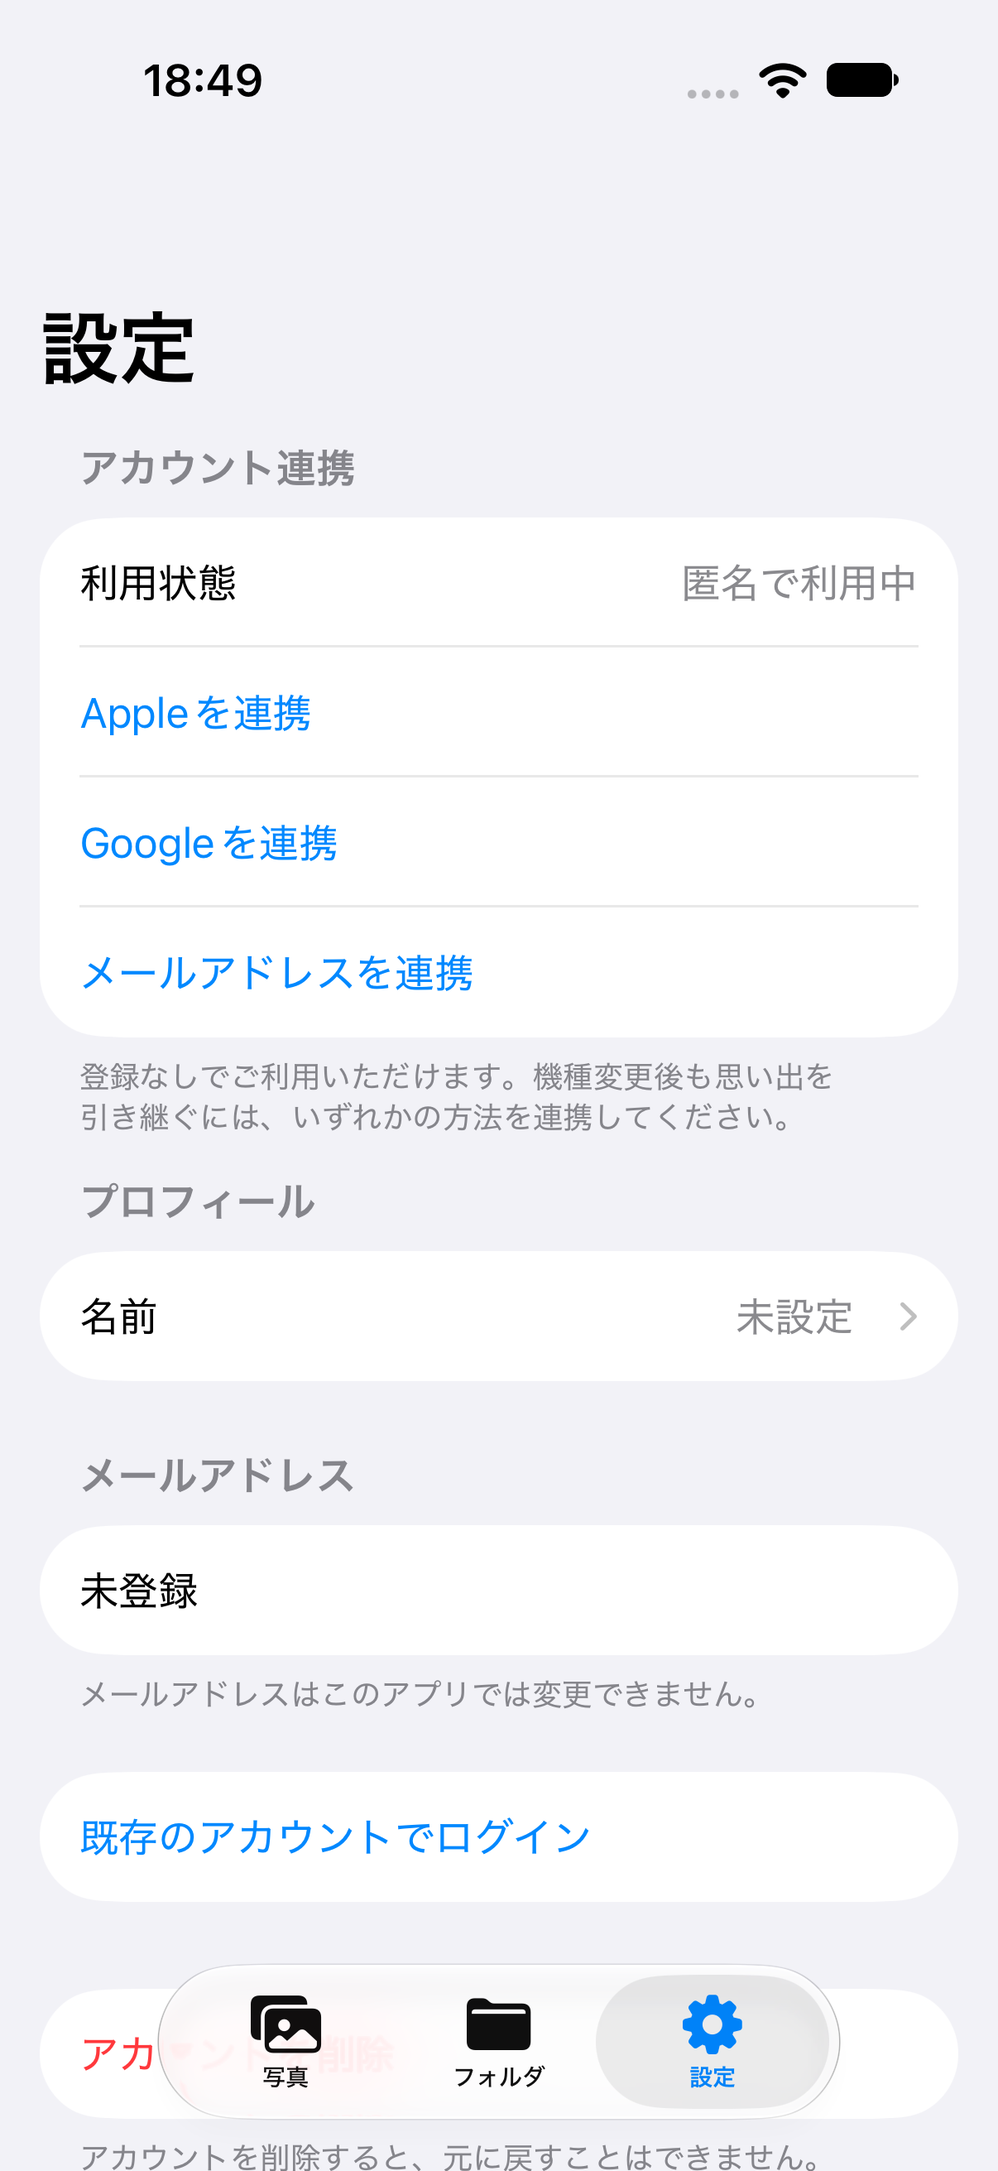
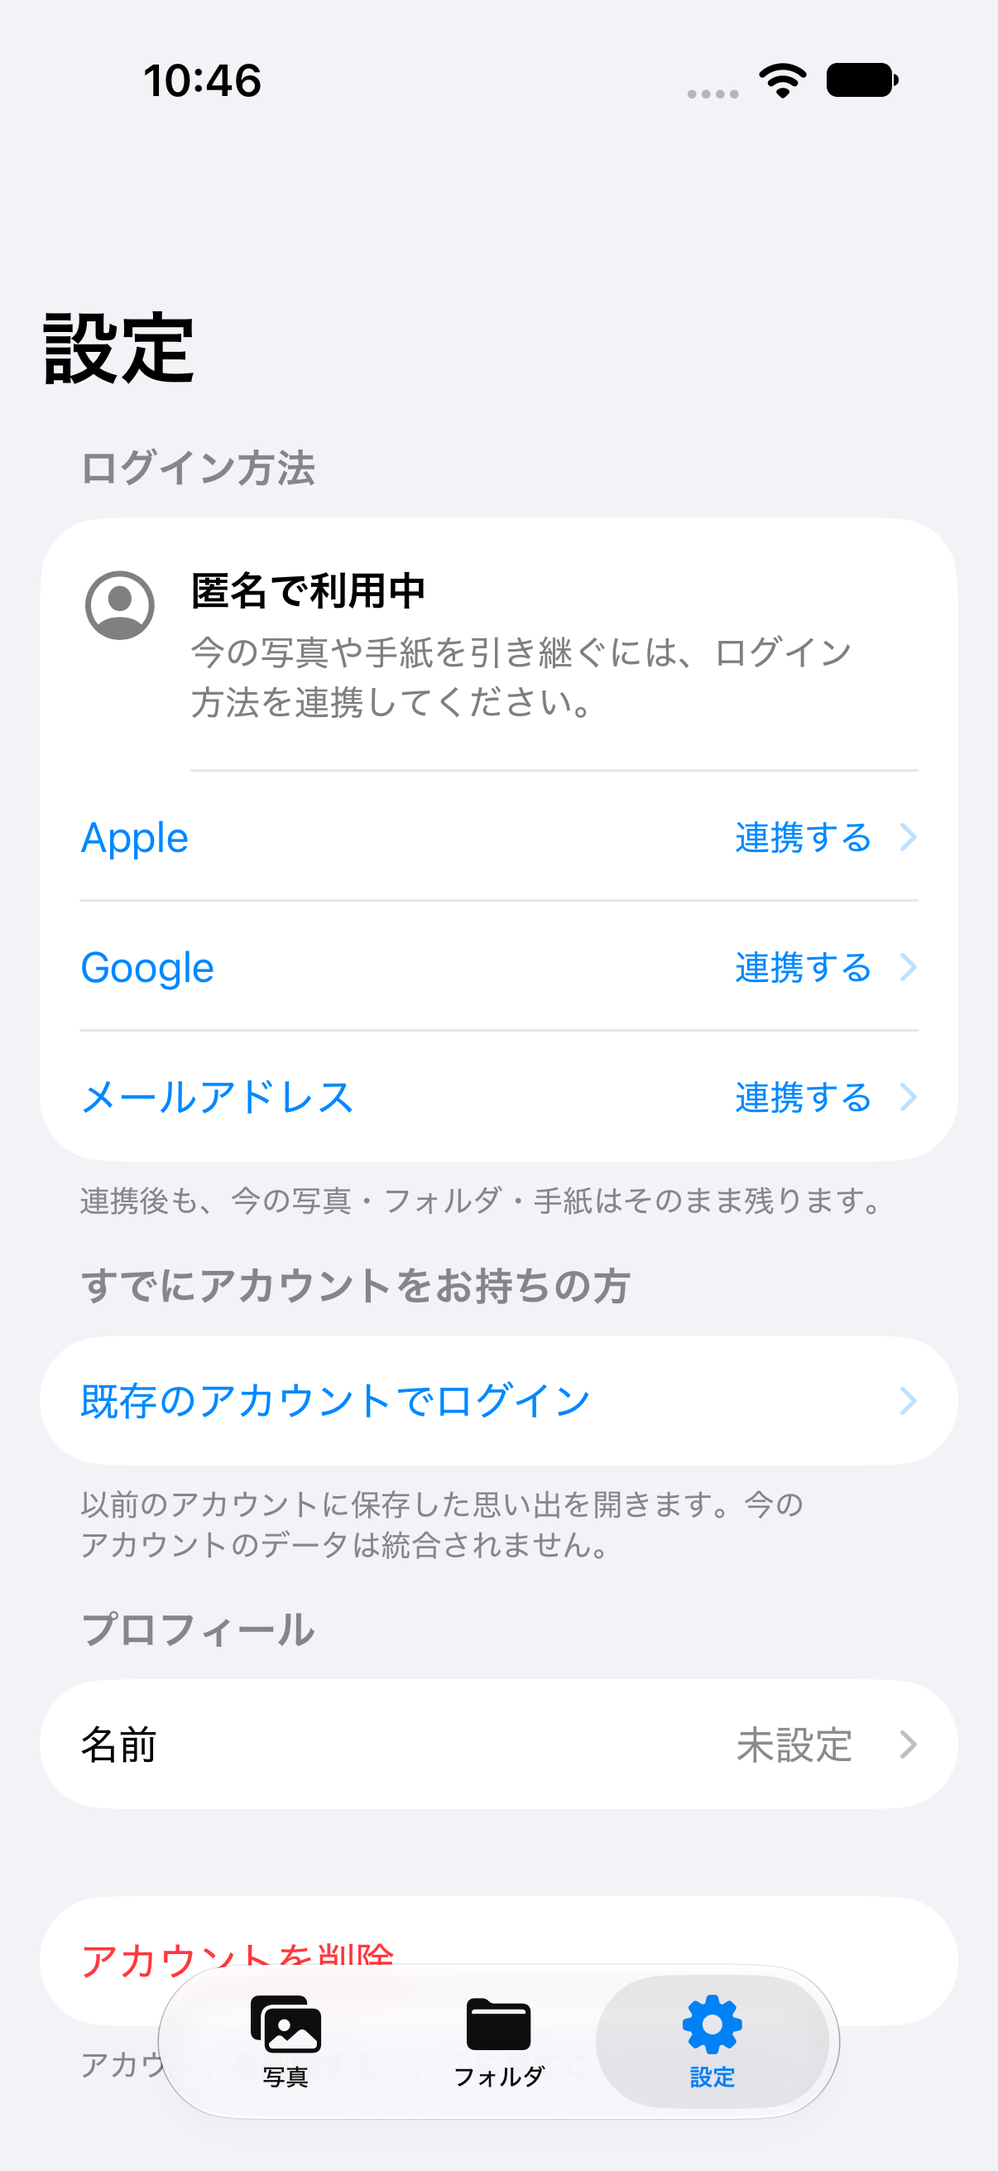
Clarify account settings and verify email linking end to end

diff --git a/sotsugyo/View/SettingView.swift b/sotsugyo/View/SettingView.swift
@@ -39,26 +39,80 @@ struct SettingView: View {
     var body: some View {
         Form {
             Section {
-                LabeledContent("利用状態", value: viewModel.isAnonymous ? "匿名で利用中" : "連携済み")
-                    .accessibilityIdentifier("auth.accountStatus")
+                HStack(alignment: .top, spacing: 12) {
+                    Image(systemName: viewModel.isAnonymous ? "person.crop.circle" : "person.crop.circle.badge.checkmark")
+                        .font(.title)
+                        .foregroundStyle(.secondary)
+                        .accessibilityHidden(true)
+                    VStack(alignment: .leading, spacing: 6) {
+                        Text(viewModel.isAnonymous ? "匿名で利用中" : "アカウント連携済み")
+                            .font(.headline)
+                        Text(viewModel.isAnonymous
+                             ? "今の写真や手紙を引き継ぐには、ログイン方法を連携してください。"
+                             : "連携した方法で、別の端末からもログインできます。")
+                            .font(.subheadline)
+                            .foregroundStyle(.secondary)
+                    }
+                }
+                .padding(.vertical, 4)
+                .accessibilityElement(children: .combine)
+                .accessibilityIdentifier("auth.accountStatus")
                 ForEach(AccountProvider.allCases) { provider in
                     if viewModel.linkedProviderIDs.contains(provider.rawValue) {
-                        LabeledContent(provider.title, value: "連携済み")
-                            .accessibilityIdentifier("auth.linked.\(provider.rawValue)")
+                        HStack {
+                            Text(provider.title)
+                            Spacer()
+                            Label("連携済み", systemImage: "checkmark.circle.fill")
+                                .font(.subheadline)
+                                .foregroundStyle(.secondary)
+                        }
+                        .accessibilityElement(children: .combine)
+                        .accessibilityIdentifier("auth.linked.\(provider.rawValue)")
                     } else {
-                        Button("\(provider.title)を連携") { linkingProvider = provider }
-                            .disabled(viewModel.isDeleting)
-                            .accessibilityIdentifier("auth.connect.\(provider.rawValue)")
+                        Button { linkingProvider = provider } label: {
+                            HStack {
+                                Text(provider.title)
+                                    .foregroundStyle(.primary)
+                                Spacer()
+                                Text("連携する")
+                                    .font(.subheadline)
+                                Image(systemName: "chevron.right")
+                                    .font(.footnote.weight(.semibold))
+                                    .foregroundStyle(.tertiary)
+                            }
+                            .contentShape(Rectangle())
+                        }
+                        .disabled(viewModel.isDeleting)
+                        .accessibilityLabel("\(provider.title)を連携")
+                        .accessibilityIdentifier("auth.connect.\(provider.rawValue)")
                     }
                 }
             } header: {
-                Text("アカウント連携")
+                Text("ログイン方法")
             } footer: {
                 if viewModel.isAnonymous {
-                    Text("登録なしでご利用いただけます。機種変更後も思い出を引き継ぐには、いずれかの方法を連携してください。")
-                } else {
-                    Text("連携した方法で、同じアカウントにログインできます。")
+                    Text("連携後も、今の写真・フォルダ・手紙はそのまま残ります。")
                 }
+            }
+
+            Section {
+                Button {
+                    isShowingExistingLogin = true
+                } label: {
+                    HStack {
+                        Text("既存のアカウントでログイン")
+                        Spacer()
+                        Image(systemName: "chevron.right")
+                            .font(.footnote.weight(.semibold))
+                            .foregroundStyle(.tertiary)
+                    }
+                }
+                .disabled(viewModel.isDeleting)
+                .accessibilityIdentifier("auth.openExistingLogin")
+            } header: {
+                Text(viewModel.isAnonymous ? "すでにアカウントをお持ちの方" : "アカウントの切り替え")
+            } footer: {
+                Text("以前のアカウントに保存した思い出を開きます。今のアカウントのデータは統合されません。")
             }
 
             Section("プロフィール") {
@@ -93,7 +147,7 @@ struct SettingView: View {
                 }
             }
 
-            if hasLoadedProfile {
+            if hasLoadedProfile && !viewModel.mailAddress.isEmpty {
                 Section {
                     Text(viewModel.mailAddress.isEmpty ? "未登録" : viewModel.mailAddress)
                         .textSelection(.enabled)
@@ -104,12 +158,8 @@ struct SettingView: View {
                 }
             }
 
-            Section {
-                Button("既存のアカウントでログイン") {
-                    isShowingExistingLogin = true
-                }
-                .disabled(viewModel.isDeleting)
-                if !viewModel.isAnonymous {
+            if !viewModel.isAnonymous {
+                Section {
                     Button("ログアウト") {
                         isShowingLogout = true
                     }

diff --git a/sotsugyo/View/AccountLinkView.swift b/sotsugyo/View/AccountLinkView.swift
@@ -8,35 +8,66 @@ struct AccountLinkView: View {
     @StateObject private var model = AccountLinkingModel()
     @State private var email = ""
     @State private var password = ""
+    @FocusState private var focusedField: Field?
+
+    private enum Field { case email, password }
+
+    private var canLinkEmail: Bool {
+        !model.isWorking && !email.trimmingCharacters(in: .whitespacesAndNewlines).isEmpty
+            && password.count >= 6
+    }
 
     var body: some View {
         NavigationStack {
             Form {
                 Section {
-                    Text("現在のアカウントに\(provider.title)を連携します。写真・フォルダ・手紙を引き継ぎ、連携した方法で別の端末からもログインできます。")
+                    VStack(alignment: .leading, spacing: 8) {
+                        Text("今の思い出を引き継ぐ")
+                            .font(.headline)
+                        Text("\(provider.title)を使って、今のアカウントにログインできるようにします。写真・フォルダ・手紙はそのまま残ります。")
+                            .font(.subheadline)
+                            .foregroundStyle(.secondary)
+                    }
+                    .padding(.vertical, 4)
                 }
                 if provider == .email {
                     Section("ログイン情報") {
-                        TextField("メールアドレス", text: $email)
-                            .textContentType(.emailAddress)
-                            .keyboardType(.emailAddress)
-                            .textInputAutocapitalization(.never)
-                            .autocorrectionDisabled()
-                            .accessibilityIdentifier("auth.email")
-                        SecureField("パスワード", text: $password)
-                            .textContentType(.newPassword)
-                            .accessibilityIdentifier("auth.password")
+                        VStack(alignment: .leading, spacing: 8) {
+                            Text("メールアドレス").font(.caption).foregroundStyle(.secondary)
+                            TextField("メールアドレスを入力", text: $email)
+                                .textContentType(.emailAddress)
+                                .keyboardType(.emailAddress)
+                                .textInputAutocapitalization(.never)
+                                .autocorrectionDisabled()
+                                .focused($focusedField, equals: .email)
+                                .submitLabel(.next)
+                                .onSubmit { focusedField = .password }
+                                .accessibilityLabel("メールアドレス")
+                                .accessibilityIdentifier("auth.email")
+                        }
+                        VStack(alignment: .leading, spacing: 8) {
+                            Text("パスワード").font(.caption).foregroundStyle(.secondary)
+                            SecureField("6文字以上で入力", text: $password)
+                                .textContentType(.newPassword)
+                                .textInputAutocapitalization(.never)
+                                .autocorrectionDisabled()
+                                .focused($focusedField, equals: .password)
+                                .submitLabel(.done)
+                                .onSubmit { focusedField = nil }
+                                .accessibilityLabel("パスワード")
+                                .accessibilityIdentifier("auth.password")
+                        }
                     }
                     .disabled(model.isWorking)
                     Section {
                         Button("メールアドレスを連携") {
+                            focusedField = nil
                             Task { finish(await model.linkEmail(email: email, password: password)) }
                         }
                         .accessibilityIdentifier("auth.linkEmail")
-                        .disabled(model.isWorking || email.trimmingCharacters(in: .whitespacesAndNewlines).isEmpty
-                                  || password.count < 6)
+                        .disabled(!canLinkEmail)
                     } footer: {
-                        Text("パスワードは6文字以上で入力してください。")
+                        Text("次回から、このメールアドレスとパスワードでログインできます。")
                     }
                 } else if provider == .apple {
                     Section {
@@ -60,6 +91,7 @@ struct AccountLinkView: View {
                     ProgressView("連携しています…")
                 }
             }
+            .scrollDismissesKeyboard(.interactively)
             .navigationTitle("\(provider.title)を連携")
             .navigationBarTitleDisplayMode(.inline)
             .toolbar {

diff --git a/sotsugyoUITests/sotsugyoUITests.swift b/sotsugyoUITests/sotsugyoUITests.swift
@@ -26,14 +26,23 @@ final class sotsugyoUITests: XCTestCase {
 
         app.buttons["auth.connect.password"].tap()
         XCTAssertTrue(app.textFields["auth.email"].waitForExistence(timeout: 5))
+        capture("auth-04-email-link", app: app)
         let email = "ui-\(UUID().uuidString.lowercased())@example.invalid"
         app.textFields["auth.email"].tap()
         app.textFields["auth.email"].typeText(email)
+        XCTAssertEqual(app.textFields["auth.email"].value as? String, email)
         XCTAssertFalse(app.buttons["auth.linkEmail"].isEnabled)
         app.secureTextFields["auth.password"].tap()
-        app.secureTextFields["auth.password"].typeText("Linked123!")
+        // iOS can replace the keyboard with its strong-password suggestion.
+        // Dismiss that system UI before entering our known test password.
+        if app.buttons["GenerateStrongPasswordButton"].waitForExistence(timeout: 2) {
+            app.buttons["xmark"].tap()
+        }
+        for character in "linkedpass" {
+            app.keys[String(character)].tap()
+        }
+        XCTAssertEqual((app.secureTextFields["auth.password"].value as? String)?.count, 10)
         XCTAssertTrue(app.buttons["auth.linkEmail"].isEnabled)
-        capture("auth-04-email-link", app: app)
         app.buttons["auth.linkEmail"].tap()
         XCTAssertTrue(app.descendants(matching: .any)["auth.linked.password"].waitForExistence(timeout: 15))
         XCTAssertFalse(app.descendants(matching: .any)["auth.accountStatus"].label.contains("匿名で利用中"))
@@ -61,11 +70,19 @@ final class sotsugyoUITests: XCTestCase {
         app.buttons["次へ"].tap()
         XCTAssertTrue(app.secureTextFields.firstMatch.waitForExistence(timeout: 5))
         app.secureTextFields.firstMatch.tap()
-        app.secureTextFields.firstMatch.typeText("Linked123!")
+        app.secureTextFields.firstMatch.typeText("linkedpass")
         app.buttons["ログイン"].tap()
+        // Do not save emulator-only credentials in the system password manager.
+        if app.buttons["Not Now"].waitForExistence(timeout: 5) {
+            app.buttons["Not Now"].tap()
+            XCTAssertTrue(app.buttons["Not Now"].waitForNonExistence(timeout: 5))
+        }
         XCTAssertTrue(app.tabBars.buttons["設定"].waitForExistence(timeout: 15))
-        app.tabBars.buttons["設定"].tap()
+        // The new TabView's AX hit point can remain invalid after the system sheet
+        // closes. Tap the center of the actual tab frame to exercise the user gesture.
+        app.tabBars.buttons["設定"].coordinate(withNormalizedOffset: CGVector(dx: 0.5, dy: 0.5)).tap()
         XCTAssertTrue(app.descendants(matching: .any)["auth.linked.password"].waitForExistence(timeout: 10))
+        capture("auth-10-signed-in-again", app: app)
     }
 
     @MainActor
@@ -388,6 +405,9 @@ final class sotsugyoUITests: XCTestCase {
     func testSettingsAndNameEditor() {
         let app = launch()
         app.tabBars.buttons["設定"].tap()
+        XCTAssertTrue(app.descendants(matching: .any)["auth.linked.google.com"].waitForExistence(timeout: 5))
+        capture("auth-09-existing-user-settings", app: app)
+        app.swipeUp()
         XCTAssertTrue(app.staticTexts["demo@example.com"].waitForExistence(timeout: 5))
         capture("09-settings", app: app)
         app.buttons.containing(.staticText, identifier: "名前").firstMatch.tap()

diff --git a/docs/verification/anonymous-auth/README.md b/docs/verification/anonymous-auth/README.md
@@ -13,6 +13,13 @@
 - 連携後は空のメールアドレスを補完し、編集済みの名前・既存プロフィール・ライブラリの日付を保持します。
 - メール連携はメールアドレスとパスワード1欄を入力します。6文字未満の場合は送信できません。
 
+## 設定UIの整理
+
+- 既存の設定画面・名前編集シート・FirebaseUIログイン画面を確認し、設定の標準 `Form` とセクション見出しを継承しました。
+- 「ログイン方法」に利用状態とデータ引き継ぎの説明をまとめ、各方法を同じ行構成で表示します。未連携は「連携する」と矢印、連携済みはチェック表示です。
+- 既存アカウントへのログインを連携欄の直後に配置し、匿名データを引き継ぐ連携との違いを説明します。切り替え時の確認も維持します。
+- 匿名時にメールアドレスがない場合は空のメール欄を表示しません。メール連携シートでは項目名を常時表示し、キーボードの「次へ」でパスワード欄、「完了」で入力を終了できます。
+
 ## 確認環境
 
 - プロジェクト / スキーム: `PIcTune.xcodeproj` / `PIcTune`
@@ -26,6 +33,8 @@
 - 最新mainの写真保存修正を取り込んだ状態で、単体・統合テスト32件成功。初回匿名作成、既存ユーザーの復元、UID維持、写真・曲情報・手紙・編集した名前の保持、メール再ログイン、認証方法の衝突、無効なメール・弱いパスワード、Appleキャンセル、セッション切り替え後の古い連携画面の拒否を確認。
 - エミュレーター上で Apple / Google のテスト用認証情報を同じ UID に連携し、両方で同じアカウントへ再ログインできることを確認。実際の Apple / Google 認証サーバーへの接続確認ではありません。
 - シミュレーターで匿名設定、Apple / Google 連携画面の表示とキャンセル、匿名からの既存ログイン画面表示、匿名アカウント削除と再開、既存の名前編集・ログアウト確認画面を確認。
+- 10月12日に更新後のUIテスト4件が成功しました。メール入力 → 連携 → アプリ再起動によるセッション復元 → ログアウト → FirebaseUIでのメール再ログイン → 設定操作まで確認済みです。32件の単体・統合テストも同日に再実行して成功しています。
+- 前回未完了だった入力テストは、iOSの強いパスワード提案を表示したまま文字入力していたことが原因でした。提案を閉じて実際のキーボードを操作する手順と、再ログイン後のパスワード保存確認を閉じる手順を追加しました。OS確認画面の終了後、再構築されたタブのアクセシビリティ上のタップ位置が無効になるため、最終操作は検出した設定タブの中央座標をタップしています。
 - 本番 Firebase の一時アカウントで、REST API による匿名認証 → メール連携 → メール再ログインを確認。同じ UID と匿名時に保存した手紙へのアクセスが維持され、デプロイ済み Firestore ルールで読み書きできました。検証用文書2件とアカウントは削除済みです。
 
 ## Firebase 設定
@@ -48,7 +57,6 @@ firebase emulators:start --only auth,firestore --project demo-pictune-auth --con
 
 ## 未確認・制約
 
-- **メール連携画面の最終操作確認は未完了です。** iOS 27でパスワードと確認欄の入力が干渉する挙動を確認し、パスワードを1欄に変更しました。変更後の署名付きビルドは成功しましたが、再テストはスクリーンショット取得のタイムアウト、再起動後はシミュレーターのアプリ起動待ちで停止しました。新規のiPhone 16 Pro / iOS 18.5でも起動処理が応答せず、画面からのメール連携・再起動・FirebaseUIメール再ログインを通したテストは成功していません。このためPRはドラフトです。SDK統合テストと本番REST APIでのメール連携・データ保持は上記のとおり確認済みです。
 - Apple / Google の実アカウントでの認証、連携、再ログインと実機での操作は未確認です。
 - FirebaseUIによる既存ユーザーの通常ログインは維持しています。匿名データと登録済み別アカウントのデータを統合する機能は含めていません。
 - 連携前に端末の認証情報を失うと、匿名アカウントへのログイン手段がありません。
@@ -57,10 +65,18 @@ firebase emulators:start --only auth,firestore --project demo-pictune-auth --con
 
 ## 画面
 
-すべてローカルエミュレーター上の検証用アカウントです。
+すべてローカルエミュレーターまたはプロフィールfixtureの検証用データです。
 
 | 匿名で利用中 | Apple連携 | Google連携 |
 | --- | --- | --- |
 | ![匿名設定](auth-01-anonymous-settings.png) | ![Apple連携](auth-02-apple-link.png) | ![Google連携](auth-03-google-link.png) |
+
+| メール連携 | メール連携後 | メール再ログイン後 |
+| --- | --- | --- |
+| ![メール連携](auth-04-email-link.png) | ![連携後](auth-05-linked-settings.png) | ![再ログイン後](auth-10-signed-in-again.png) |
+
+既存Googleユーザーの設定表示はローカルのプロフィールfixtureで確認しています。実Googleログインを確認した画像ではありません。
+
+![既存ユーザーの設定](auth-09-existing-user-settings.png)
 
 ![既存ログイン](auth-08-existing-login-from-anonymous.png)
